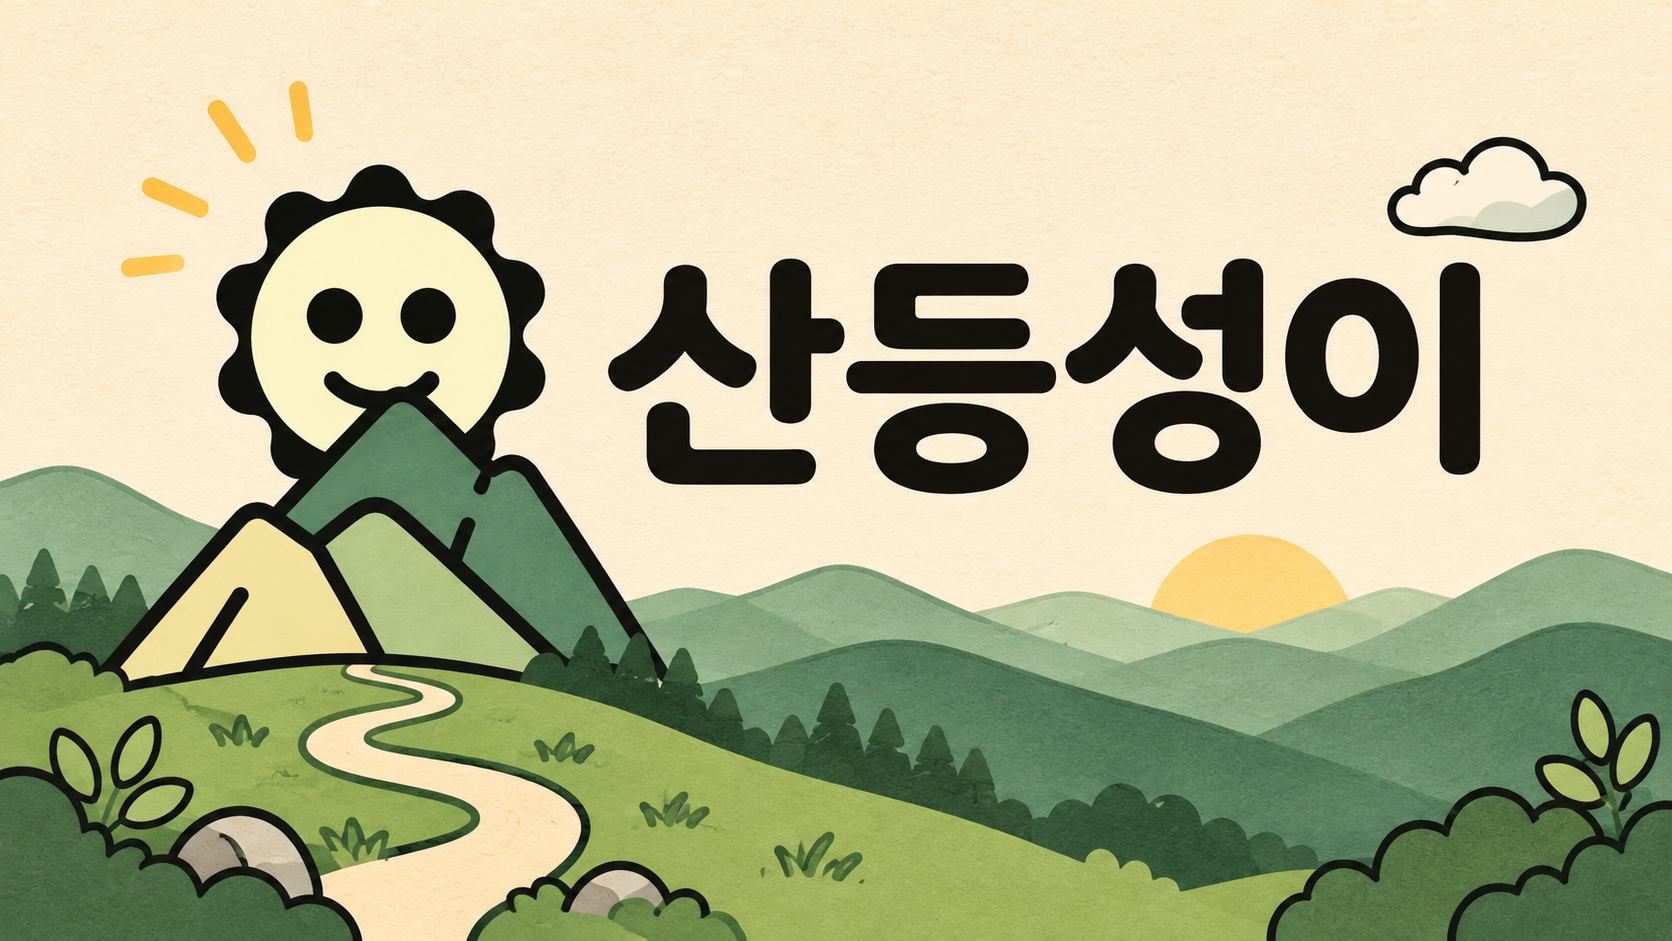
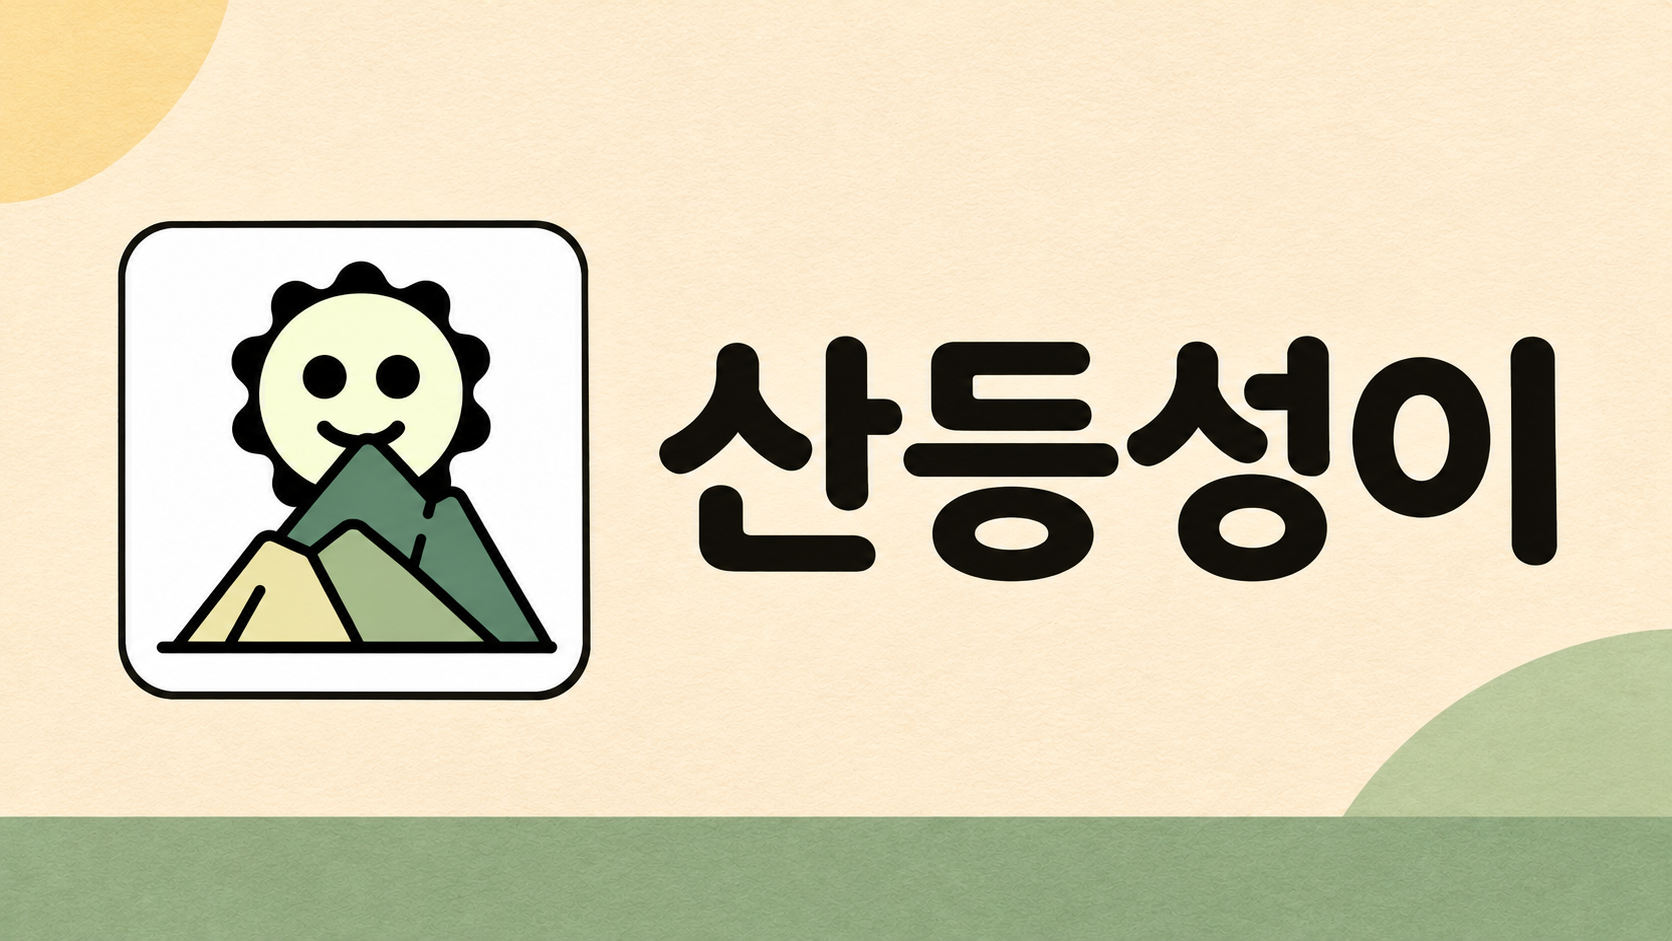
docs: 원본 아이콘을 배치한 프로젝트 배너 반영

diff --git a/README.md b/README.md
@@ -1,6 +1,6 @@
 # 산등성이
 
-![산등성이 프로젝트 배너](docs/images/project-banner.png)
+![산등성이 아이콘과 프로젝트명을 배치한 소개 배너](docs/images/project-banner.png)
 
 Flutter 공통 앱은 [`mobile/`](mobile/README.md)에 있습니다. Android 개인 테스트용 APK, iOS 프로젝트, 브라우저용 웹판을 함께 관리합니다.
 
